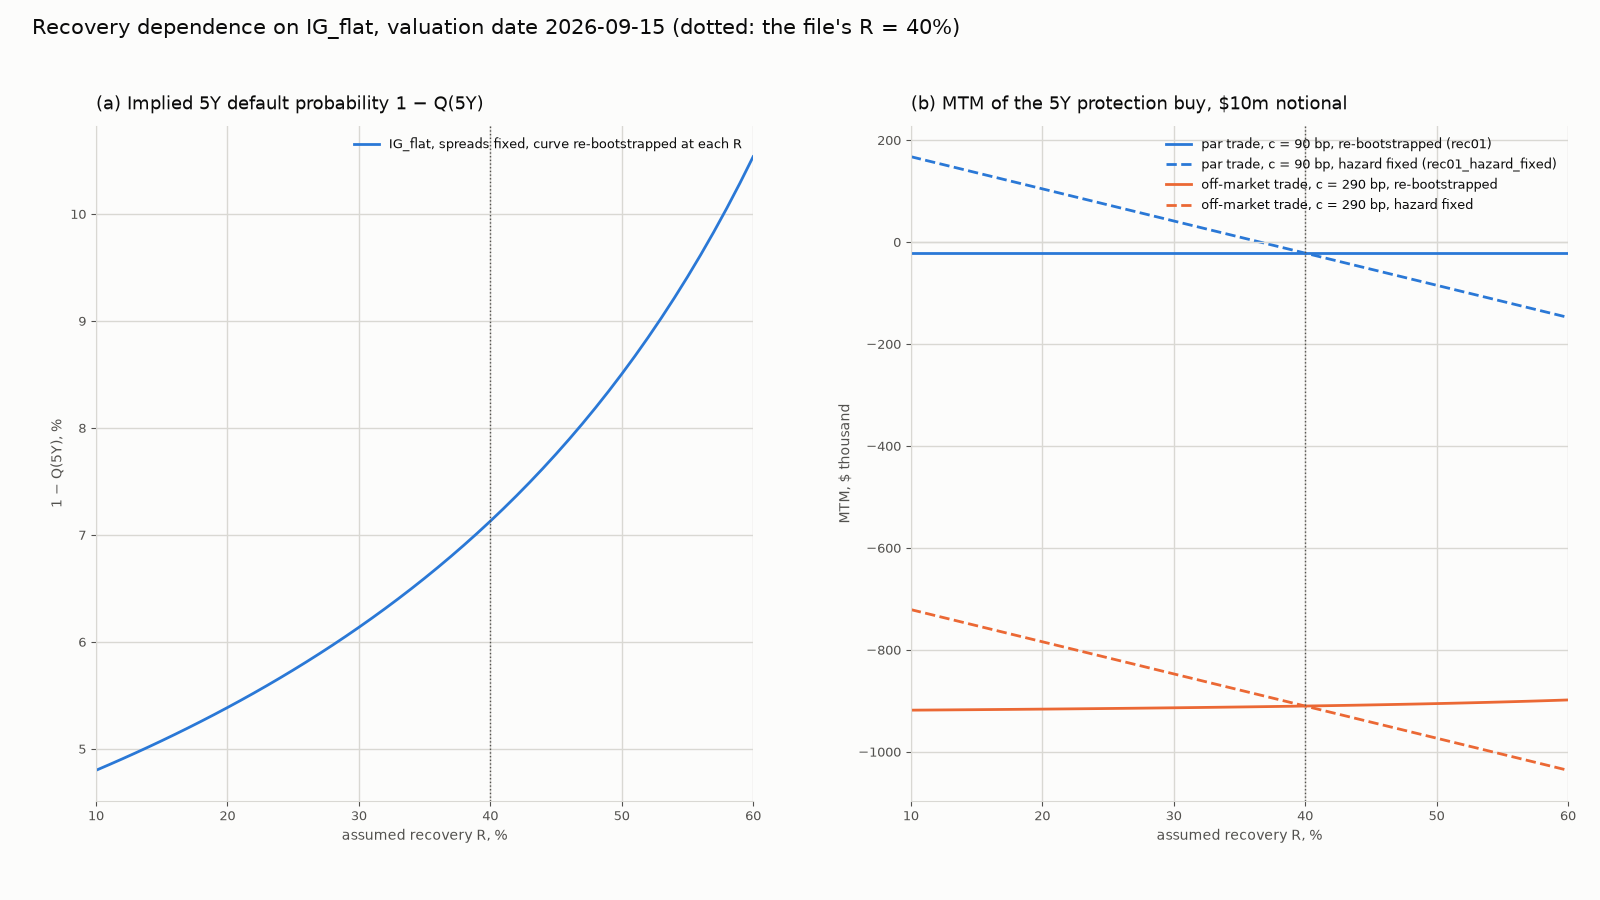
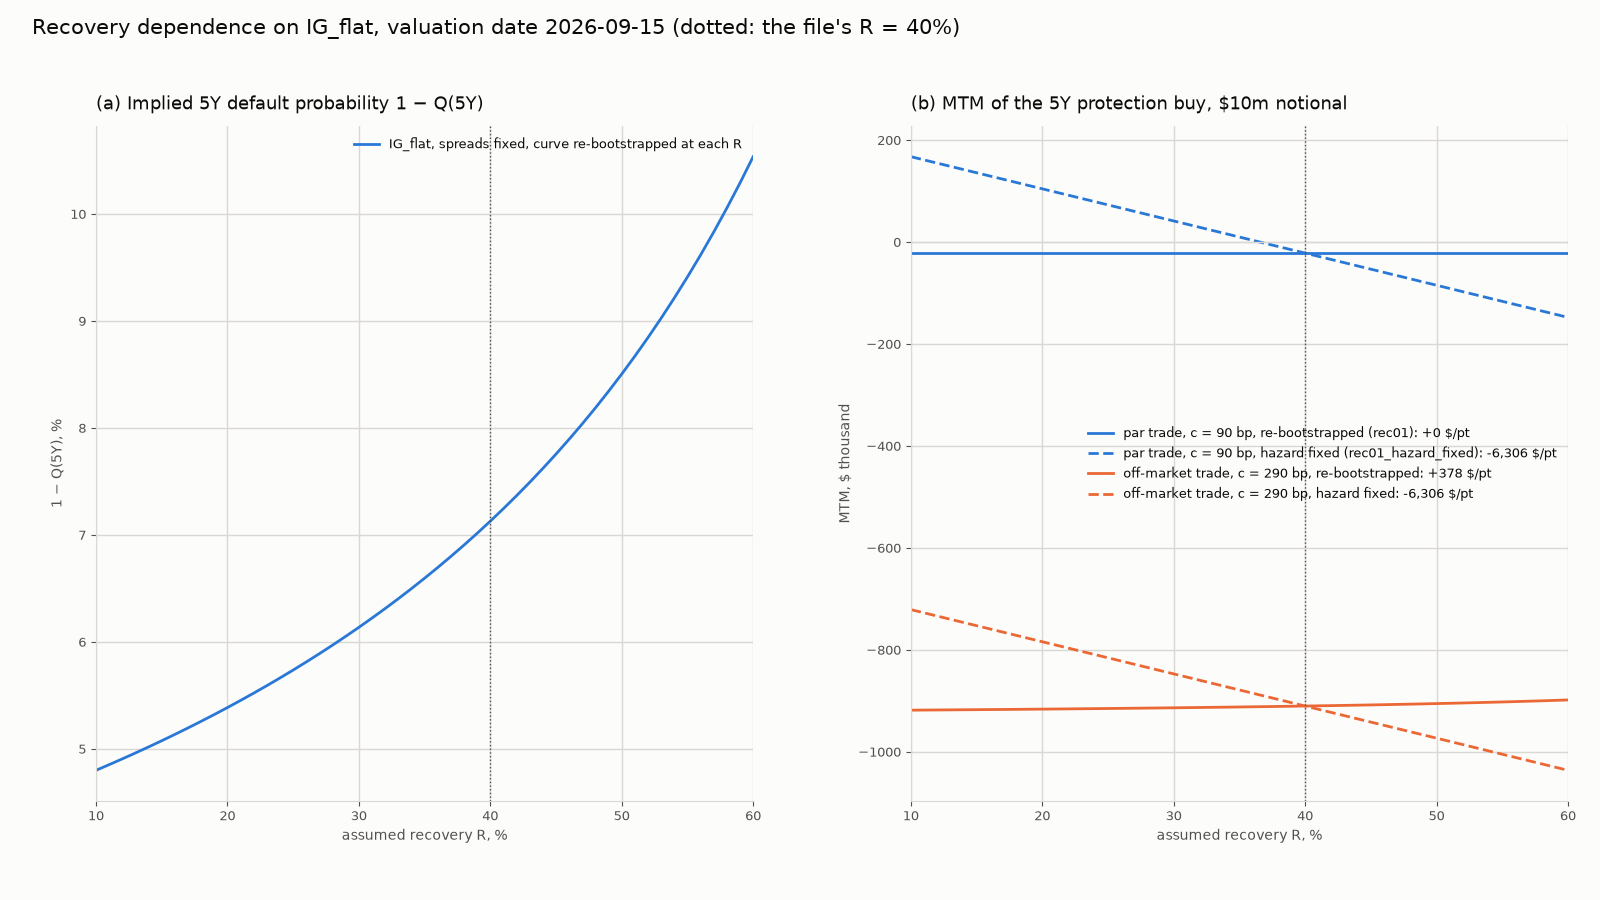
Section 09: items 43 to 45
Item 45: OUTPUT_ABS_TOL = 1e-6 in tests/conftest.py (assert_output_current
compares within max(1e-6, 1e-6 x |committed|)); 356/356 before and after.
Item 44: jtd() prices every trade with quote = None, the unwind value, so the
sunk inception cash of an upfront-quoted trade does not enter; the docstring
says why and a test on a seasoned upfront_pct-quoted distressed trade shows
JTD unchanged when the inception upfront moves by 5 points.
Item 43: Chart 2 panel (b) legend labels end with each line's slope in $ per
recovery point, the least-squares slope over the CSV (report.chart_2_slopes);
the PNG is regenerated, the CSV is unchanged.
Item 41: Section 8 criterion 5 rewritten (IG 5Y under $200, distressed 5Y
over $300, distressed 10Y over $500); IR01_DISTRESSED_MIN_USD = 300 and
IR01_DISTRESSED_10Y_MIN_USD = 500 replace the pinned band; the test checks
the 10Y trade too.

357 passed.

Changed region(s): [[0.6875, 0.4667, 0.9688, 0.56], [0.7188, 0.1556, 0.9688, 0.2489]]

diff --git a/tests/test_risk.py b/tests/test_risk.py
@@ -46,8 +46,8 @@ from tests.conftest import (
     CS01_CENTRAL_ABS_USD,
     CS01_CENTRAL_REL_TOL,
     CS01_SUM_REL_TOL,
+    IR01_DISTRESSED_10Y_MIN_USD,
     IR01_DISTRESSED_MIN_USD,
-    IR01_DISTRESSED_PINNED_BAND,
     IR01_IG_MAX_USD,
     JTD_ABS_USD,
     PRICER_IDENTITY_ABS_TOL,
@@ -263,6 +263,27 @@ def test_jtd_is_loss_given_default_less_mtm_less_accrued(results: dict[str, Boot
     assert abs(jtd(state, sell) + reports[label].jtd) <= JTD_ABS_USD
 
 
+def test_jtd_uses_the_unwind_value_so_the_inception_cash_of_an_upfront_trade_is_sunk(results: dict[str, BootstrapResult], discount: DiscountCurve) -> None:
+    """Item 44: the distressed 5Y buy at coupon 500, quoted as an upfront,
+    valued a month after its trade date on the calendar-shifted curves.
+    Two inception upfronts 5 points apart move PriceResult.mtm by 5% of
+    notional and JTD by nothing; both JTDs equal the quote = None number."""
+    r = results["distressed_inverted"]
+    as_of = add_calendar_months(r.quotes.as_of, 1)
+    state = shifted_state(market_state(r, discount), as_of, "calendar")
+    unquoted = _five_year(r, 500.0)
+    paid_20 = replace(unquoted, quote=Quote(kind="upfront_pct", value=20.0, coupon_bp=500.0))
+    paid_25 = replace(unquoted, quote=Quote(kind="upfront_pct", value=25.0, coupon_bp=500.0))
+    mtm_20, mtm_25 = price(state, paid_20).mtm, price(state, paid_25).mtm
+    assert mtm_20 - mtm_25 == pytest.approx(0.05 * DEFAULT_NOTIONAL)  # the inception cash differs by 5 points
+    assert jtd(state, paid_20) == pytest.approx(jtd(state, paid_25), abs=JTD_ABS_USD)
+    assert jtd(state, paid_20) == pytest.approx(jtd(state, unquoted), abs=JTD_ABS_USD)
+    schedule = cds_schedule(unquoted.trade_date, unquoted.maturity)
+    accrued = 500.0 / BP_PER_UNIT * DEFAULT_NOTIONAL * accrued_to_valuation_date(schedule, as_of) / ACT360_BASIS
+    assert jtd(state, paid_20) == pytest.approx((1.0 - unquoted.recovery) * DEFAULT_NOTIONAL - price(state, unquoted).mtm - accrued, abs=JTD_ABS_USD)
+    assert jtd(state, replace(paid_20, side="sell")) == pytest.approx(-jtd(state, paid_20), abs=JTD_ABS_USD)
+
+
 def test_accrued_to_valuation_date_stops_at_as_of_where_the_pricer_goes_one_day_on(results: dict[str, BootstrapResult]) -> None:
     trade = _five_year(results["IG_flat"], 100.0)
     schedule = cds_schedule(trade.trade_date, trade.maturity)
@@ -275,15 +296,19 @@ def test_accrued_to_valuation_date_stops_at_as_of_where_the_pricer_goes_one_day_
 # --- criterion 5: IR01 ----------------------------------------------------------------
 
 
-def test_ir01_small_on_the_ig_par_trade_and_larger_on_the_distressed_upfront_trade(reports: dict[str, RiskReport]) -> None:
+def test_ir01_small_on_the_ig_par_trade_and_larger_on_the_distressed_upfront_trades(results: dict[str, BootstrapResult], discount: DiscountCurve, reports: dict[str, RiskReport]) -> None:
+    """Criterion 5 as rewritten (item 41): under $200 on the IG 5Y par
+    trade, over $300 on the distressed 5Y upfront trade, over $500 on the
+    distressed 10Y."""
     ig, distressed = reports["IG_flat"].ir01, reports["distressed_inverted"].ir01
     assert abs(ig) < IR01_IG_MAX_USD
-    assert abs(distressed) > IR01_IG_MAX_USD
-    # The plan's bar of $500 is not met: the number is -$399 (review 08,
-    # Against the plan); pinned here until the reviewer sets the bar.
-    lo, hi = IR01_DISTRESSED_PINNED_BAND
-    assert hi == IR01_DISTRESSED_MIN_USD and lo < abs(distressed) < hi
+    assert abs(distressed) > IR01_DISTRESSED_MIN_USD
     assert distressed < 0.0  # the buyer holds a $1.94m receivable; higher rates discount it more
+    r = results["distressed_inverted"]
+    ten_year = replace(pillar_trade(r.quotes, r.quotes.pillars.index("10Y"), 500.0), side="buy")
+    distressed_10y = ir01(market_state(r, discount), ten_year, spreads_bp=r.conventional_spreads_bp)
+    assert abs(distressed_10y) > IR01_DISTRESSED_10Y_MIN_USD
+    assert distressed_10y < distressed < 0.0  # the longer receivable has the larger duration
 
 
 def test_ir01_rebuilds_the_discount_curve_from_its_par_rates(results: dict[str, BootstrapResult], discount: DiscountCurve) -> None:
@@ -446,6 +471,13 @@ def test_chart_2_is_current_1600_by_900_and_shows_the_rec01_point(results: dict[
     # At the file's R the two readings meet.
     assert base.loc[0.40, "mtm_par_trade"] == pytest.approx(base.loc[0.40, "mtm_par_trade_hazard_fixed"])
     assert par.coupon_bp == pytest.approx(90.0) and off.coupon_bp == pytest.approx(90.0 + report.CHART_2_OFFMARKET_BP)
+    # Item 43: the legend slopes come from the CSV; the hazard-fixed lines are linear, so the fit is the 1-point step.
+    slopes = report.chart_2_slopes(pd.read_csv(committed))
+    assert set(slopes) == set(report.CHART_2_COLUMNS[2:])
+    assert slopes["mtm_par_trade_hazard_fixed"] == pytest.approx(step, rel=REC01_HAZARD_FIXED_REL_TOL)
+    assert slopes["mtm_offmarket_trade_hazard_fixed"] == pytest.approx(step, rel=REC01_HAZARD_FIXED_REL_TOL)
+    assert abs(slopes["mtm_par_trade"]) < CHART_2_PAR_FLAT_USD
+    assert slopes["mtm_offmarket_trade"] > 0.0
 
 
 def test_make_outputs_knows_table_3_and_chart_2() -> None:

diff --git a/cds/report.py b/cds/report.py
@@ -49,10 +49,13 @@ conventional spreads held fixed and the curve re-bootstrapped at each R;
 at the file's recovery) and of the running-spread trade struck 200 bp
 above it, each drawn twice: re-bootstrapped at each R (the desk number,
 flat for the par trade) and with the hazard curve held at the file's
-recovery (the slope -I N, the same for both). The data file
-chart_2_recovery_dependence.csv holds recovery, implied_5y_default_prob,
-mtm_par_trade, mtm_offmarket_trade, mtm_par_trade_hazard_fixed,
-mtm_offmarket_trade_hazard_fixed.
+recovery (the slope -I N, the same for both). Each legend label of panel
+(b) ends with the line's slope in $ per recovery point, the least-squares
+slope of the column against R in points over the 51 rows of the data
+file (chart_2_slopes; docs/CONVENTIONS_RESOLVED.md item 43). The data
+file chart_2_recovery_dependence.csv holds recovery,
+implied_5y_default_prob, mtm_par_trade, mtm_offmarket_trade,
+mtm_par_trade_hazard_fixed, mtm_offmarket_trade_hazard_fixed.
 """
 
 from __future__ import annotations
@@ -95,6 +98,7 @@ __all__ = [
     "TABLES_DIR",
     "chart_1_survival_hazard",
     "chart_2_recovery_dependence",
+    "chart_2_slopes",
     "chart_2_trades",
     "markdown_table",
     "rounded",
@@ -426,15 +430,26 @@ def _chart_2_rows(result: BootstrapResult, discount) -> pd.DataFrame:
     return pd.DataFrame(rows, columns=list(CHART_2_COLUMNS))
 
 
+def chart_2_slopes(df: pd.DataFrame) -> dict[str, float]:
+    """The slope of each MTM column of the Chart 2 data in $ per recovery
+    point: the least-squares slope against 100 R over every row. Exact for
+    the hazard-fixed lines, which are linear in R; the fit over the range
+    for the re-bootstrapped ones."""
+    r_points = PERCENT * df["recovery"].to_numpy(dtype=float)
+    return {col: float(np.polyfit(r_points, df[col].to_numpy(dtype=float), 1)[0]) for col in CHART_2_COLUMNS[2:]}
+
+
 def chart_2_recovery_dependence(result: BootstrapResult, discount, out_dir: Path = CHARTS_DIR) -> pd.DataFrame:
     """Chart 2: implied 5Y default probability and the two trades' MTM
-    against recovery on the given (IG) curve; the data written next to it."""
+    against recovery on the given (IG) curve; the data written next to it.
+    Panel (b)'s legend labels end with each line's slope from the data."""
     df = _chart_2_rows(result, discount)
     out_dir.mkdir(parents=True, exist_ok=True)
     rounded(df).to_csv(out_dir / "chart_2_recovery_dependence.csv", index=False, lineterminator="\n")
     par, offmarket = chart_2_trades(result, discount)
     base_r = result.quotes.recovery
     label = result.quotes.label
+    slopes = chart_2_slopes(rounded(df))
 
     fig, (ax_pd, ax_mtm) = plt.subplots(1, 2, figsize=(CHART_SIZE_PX[0] / CHART_DPI, CHART_SIZE_PX[1] / CHART_DPI), dpi=CHART_DPI)
     fig.patch.set_facecolor(SURFACE)
@@ -447,7 +462,7 @@ def chart_2_recovery_dependence(result: BootstrapResult, discount, out_dir: Path
         ("mtm_offmarket_trade_hazard_fixed", SERIES_COLOURS[1], "--", f"off-market trade, c = {offmarket.coupon_bp:g} bp, hazard fixed"),
     )
     for col, colour, style, text in series:
-        ax_mtm.plot(r_pct, df[col].to_numpy() / THOUSAND, color=colour, linewidth=2, linestyle=style, label=text)
+        ax_mtm.plot(r_pct, df[col].to_numpy() / THOUSAND, color=colour, linewidth=2, linestyle=style, label=f"{text}: {slopes[col]:+,.0f} $/pt")
     _style_axis(ax_pd, "(a) Implied 5Y default probability 1 − Q(5Y)", "1 − Q(5Y), %")
     _style_axis(ax_mtm, "(b) MTM of the 5Y protection buy, $10m notional", "MTM, $ thousand")
     for ax in (ax_pd, ax_mtm):

diff --git a/cds/risk.py b/cds/risk.py
@@ -53,12 +53,15 @@ The discount curve must carry its inputs (a DiscountCurve from
 bootstrap_ois does; a calendar-shifted one does not).
 
 JTD. Part C item 2: for the protection buyer (1 - R) N - mtm - accrued,
-where mtm is the buyer's dirty mtm and accrued is the coupon accrued from
-the start of the period containing the valuation date to the valuation
-date itself, c N days / 360, paid on default under accrual on default
-(item 29 counts the pricer's accrued to as_of + 1; this one stops at
-as_of). The seller's number is the negative. R is the trade's assumed
-recovery.
+where mtm is the buyer's dirty unwind value (price() with quote = None,
+docs/CONVENTIONS_RESOLVED.md item 44: the inception cash of an
+upfront-quoted trade is sunk, so the loss on default is measured against
+the trade's current mark, not against the value net of what was paid at
+inception) and accrued is the coupon accrued from the start of the period
+containing the valuation date to the valuation date itself, c N days /
+360, paid on default under accrual on default (item 29 counts the
+pricer's accrued to as_of + 1; this one stops at as_of). The seller's
+number is the negative. R is the trade's assumed recovery.
 
 Theta. Part B item 7: the change in the side's dirty mtm from t_0 to t_1
 plus the coupon cash the side paid (buyer, negative) or received (seller,
@@ -298,12 +301,22 @@ def accrued_to_valuation_date(schedule: Schedule, as_of: date) -> int:
 
 def jtd(state: MarketState, trade: CDSTrade, *, calendar: str = DEFAULT_CALENDAR, engine: Engine = "isda", half_day_bias: bool = True) -> float:
     """Part C item 2: side * ((1 - R) N - accrued to as_of) - mtm, i.e. for
-    the buyer (1 - R) N - mtm - accrued and for the seller the negative."""
+    the buyer (1 - R) N - mtm - accrued and for the seller the negative.
+
+    mtm is the trade's unwind value, price() with quote = None, for every
+    trade (item 44). PriceResult.mtm of an upfront_pct-quoted trade is net
+    of the inception cash (item 25), but that cash was paid on the trade's
+    own settlement date and is sunk: on default the buyer receives
+    (1 - R) N and gives up a contract worth its current mark, so the P&L
+    against the mark is what JTD measures, and it does not move when the
+    inception cash does. For quote = None and par_spread_bp trades the two
+    values coincide."""
     kw = _kwargs(calendar, engine, half_day_bias)
     schedule = cds_schedule(trade.trade_date, trade.maturity, calendar)
     days = accrued_to_valuation_date(schedule, state.as_of)
     accrued = trade.coupon_bp / BP_PER_UNIT * trade.notional * days / ACT360_BASIS
-    return SIDE_SIGN[trade.side] * ((1.0 - trade.recovery) * trade.notional - accrued) - _mtm(state, trade, kw)
+    unwind = _mtm(state, replace(trade, quote=None), kw)
+    return SIDE_SIGN[trade.side] * ((1.0 - trade.recovery) * trade.notional - accrued) - unwind
 
 
 def coupon_cash_in_window(trade: CDSTrade, schedule: Schedule, t0: date, t1: date) -> float:

diff --git a/tests/conftest.py b/tests/conftest.py
@@ -82,12 +82,13 @@ JTD_ABS_USD = 0.01
 # trade's value is near zero, so a 1 bp discounting shift moves little.
 IR01_IG_MAX_USD = 200.0
 
-# Section 8: the plan's bar for IR01 on the distressed upfront trade, over
-# $500 (criterion 5). Not met: the 5Y trade at coupon 500 carries a $1.94m
-# upfront and a 1 bp parallel OIS bump moves it by $399 (review 08, Against
-# the plan); the test pins the number to within this band of the bar.
-IR01_DISTRESSED_MIN_USD = 500.0
-IR01_DISTRESSED_PINNED_BAND = (300.0, 500.0)
+# Section 8, criterion 5 as rewritten (docs/CONVENTIONS_RESOLVED.md item
+# 41): IR01 on the distressed 5Y upfront trade is over $300 in absolute
+# value (the 5Y trade at coupon 500 carries a $1.94m receivable and a 1 bp
+# parallel OIS bump moves it by $399) and on the distressed 10Y over $500
+# ($696: a longer receivable has more duration).
+IR01_DISTRESSED_MIN_USD = 300.0
+IR01_DISTRESSED_10Y_MIN_USD = 500.0
 
 # Section 8: a seasoned trade's mtm per unit notional against QuantLib's NPV
 # over P(t_settle), the same closed form on the same curves; float noise.
@@ -190,20 +191,21 @@ UPFRONT_CURVE_VS_FLAT_BP = 0.01
 # reported.
 UPFRONT_CURVE_VS_FLAT_HY_MIN_BP = 1.0
 
-# Section 6 (docs/CONVENTIONS_RESOLVED.md items 34 and 38): a committed
+# Section 6 (docs/CONVENTIONS_RESOLVED.md items 34, 38 and 45): a committed
 # output is compared with its regeneration numerically, every float within
 # max(OUTPUT_ABS_TOL, OUTPUT_ABS_TOL * |committed value|) and every text
-# column exactly. The files hold 10 decimal places, so 1e-9 absolute is a
-# full digit of slack over the rounding on a number of order 1, and 1e-9
-# relative is the same slack on a number in currency on $10m.
-OUTPUT_ABS_TOL = 1e-9
+# column exactly. 1e-6 absolute or relative, whichever is larger: a
+# difference column (Table 2 diff, Table 3 cs01_2y) is the difference of two
+# $10m-scale values and carries a 1e-9 noise floor across numpy builds
+# whatever its own size, and nothing in the outputs is meaningful past 1e-6.
+OUTPUT_ABS_TOL = 1e-6
 
 
 def assert_output_current(fresh_csv, committed_csv) -> None:
     """The two CSVs hold the same table: same columns in the same order, same
     row count, text columns equal, every float within
-    max(OUTPUT_ABS_TOL, OUTPUT_ABS_TOL * |committed value|) (items 34 and
-    38). Imported by every test that checks an output is current."""
+    max(OUTPUT_ABS_TOL, OUTPUT_ABS_TOL * |committed value|) (items 34, 38
+    and 45). Imported by every test that checks an output is current."""
     import pandas as pd
 
     fresh, committed = pd.read_csv(fresh_csv), pd.read_csv(committed_csv)

diff --git a/BUILD_PLAN.md b/BUILD_PLAN.md
@@ -890,8 +890,14 @@ trade; the coupon paid in the window, if any, is added with the side's sign.
    1 month.
 4. `jtd` for the buyer equals (1 − R)·N − mtm − accrued_since_period_start
    to $0.01, and the seller's is the negative.
-5. `ir01` on the IG par trade is under $200 in absolute value and on the
-   distressed upfront trade over $500 (the review records both).
+5. `ir01` on the IG 5Y par trade is under $200 in absolute value
+   (`IR01_IG_MAX_USD`); on the distressed 5Y upfront trade over $300
+   (`IR01_DISTRESSED_MIN_USD`) and on the distressed 10Y over $500
+   (`IR01_DISTRESSED_10Y_MIN_USD`), both in absolute value (the review
+   records all three). Rewritten from "over $500" on the 5Y trade in
+   docs/CONVENTIONS_RESOLVED.md item 41: the 5Y trade's $1.94m receivable
+   has about two years of duration, so a 1 bp parallel OIS bump moves it
+   by $399.
 6. Central CS01 differs from one-sided by under 1% per pillar on IG.
 
 **Tests.** `tests/test_risk.py`.
